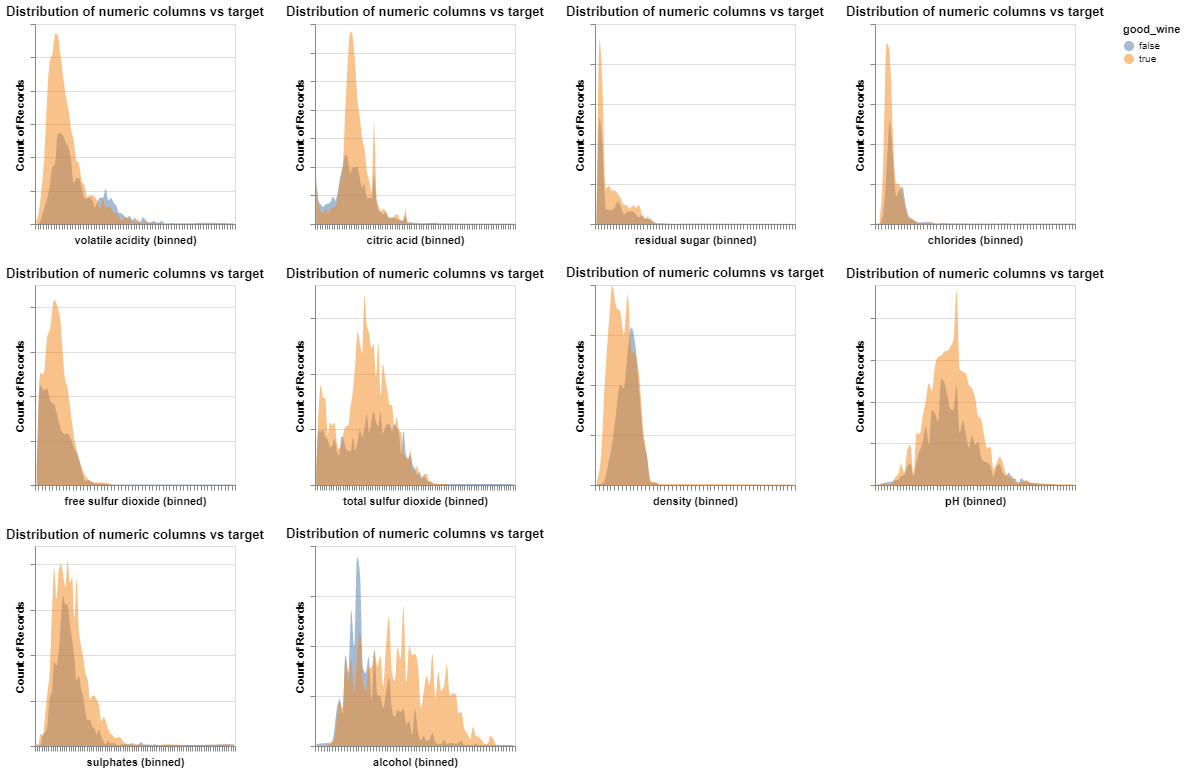
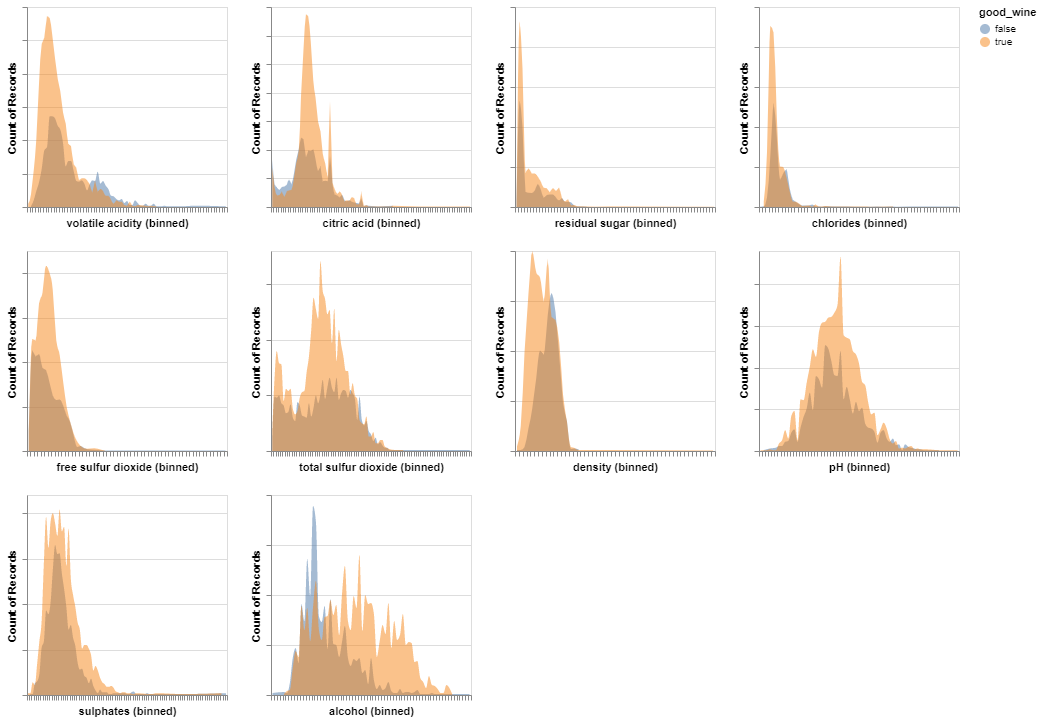
Regenerate images after titles clean up

Changed region(s): [[0.0, 0.0, 1.0, 1.0]]

diff --git a/src/eda_wine.py b/src/eda_wine.py
@@ -57,7 +57,7 @@ def draw_numeric_plot(train_df):
     """
     num_cols = list(train_df.select_dtypes(include=np.number).iloc[:,1:].columns)
 
-    num_plot = alt.Chart(train_df, title='Distribution of numeric columns vs target').mark_area(
+    num_plot = alt.Chart(train_df).mark_area(
         opacity=0.5,
         interpolate='monotone'
     ).encode(
@@ -83,7 +83,7 @@ def draw_binary_plot(train_df):
     Returns:
         alt.Chart: plot object of binary plot
     """
-    bin_plot = alt.Chart(train_df).mark_bar().encode(
+    bin_plot = alt.Chart(train_df, title='Target distribution for each wine type').mark_bar().encode(
         x='good_wine',
         y='count()',
         color='good_wine',
